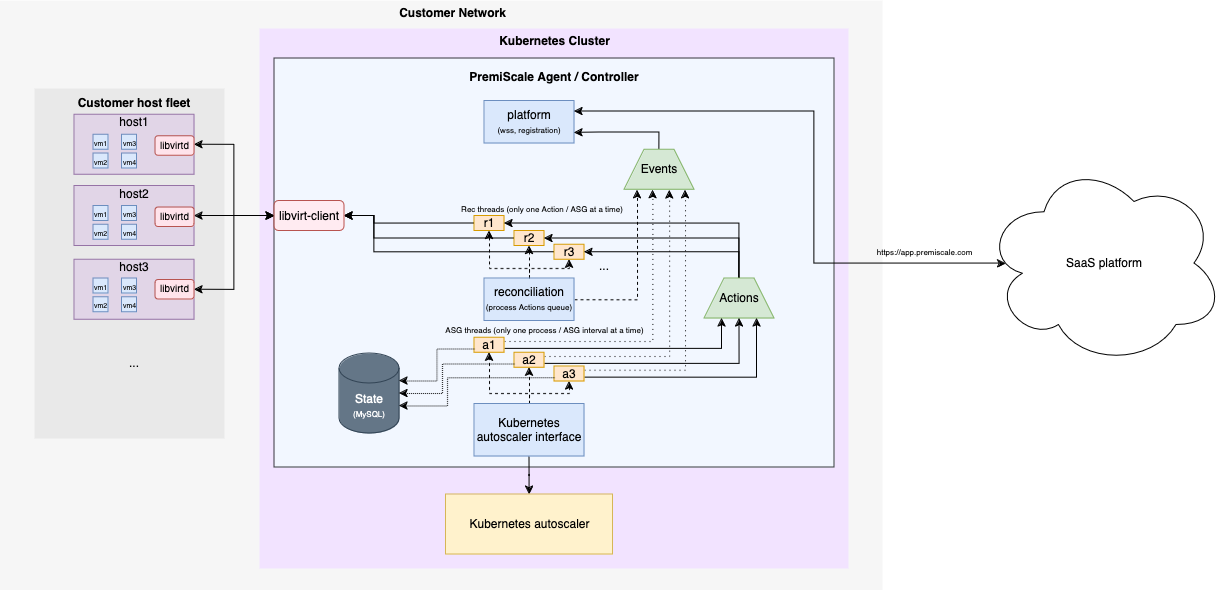
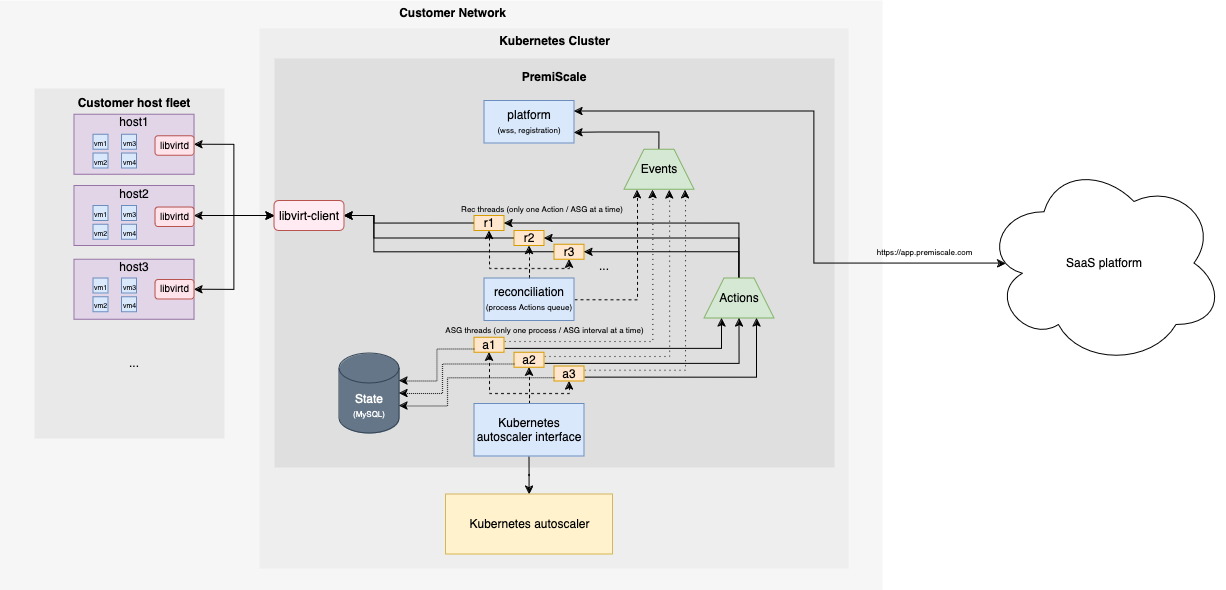
update-diagrams: fix diagrams

Changed region(s): [[0.217, 0.0915, 0.6819, 0.7932]]

diff --git a/README.md b/README.md
@@ -4,7 +4,7 @@ PremiScale is a controller that brings autoscaling of virtual infrastructure to 
 
 ## Architecture
 
-PremiScale is a controller that administers hosts and virtual machines by leveraging [libvirt](https://libvirt.org/). Libvirt is a very flexible open source hypervisor API and daemon that runs on hosts.
+PremiScale leverages [libvirt](https://libvirt.org/) to connect to hosts and manage the lifecycle of virtual machines.
 
 The controller can be configured to run in two different modes, including a `kubernetes` (the default) and a `standalone` mode.
 
@@ -13,7 +13,7 @@ The controller can be configured to run in two different modes, including a `kub
 Starting the controller in `kubernetes` mode (the default) starts relevant components of the controller that allow it to interface with the cluster autoscaler.
 
 <p align="center" width="100%">
-  <img width="100%" src="img/premiscale-architecture-controller_internal_autoscaler_disabled.png" alt="premiscale architecture controller">
+  <img width="100%" src="img/premiscale-architecture-controller_internal_autoscaler_disabled.png" alt="premiscale architecture: internal autoscaler disabled">
 </p>
 
 ### Standalone
@@ -21,7 +21,7 @@ Starting the controller in `kubernetes` mode (the default) starts relevant compo
 In `standalone` mode, the controller starts its own metrics collection process. Users are required to provide a list of hosts on which virtual machines can be created. Users are also required to provide a list of autoscaling groups into which virtual machines the controller manages are organized.
 
 <p align="center" width="100%">
-  <img width="100%" src="img/premiscale-architecture-controller.png" alt="premiscale architecture controller">
+  <img width="100%" src="img/premiscale-architecture-controller_internal_autoscaler_enabled.png" alt="premiscale architecture: internal autoscaler enabled">
 </p>
 
 ## Configuration
